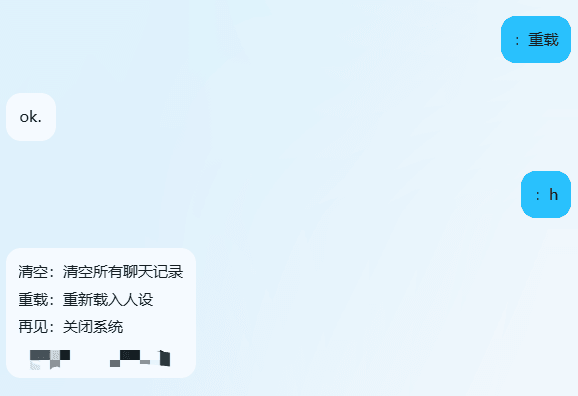
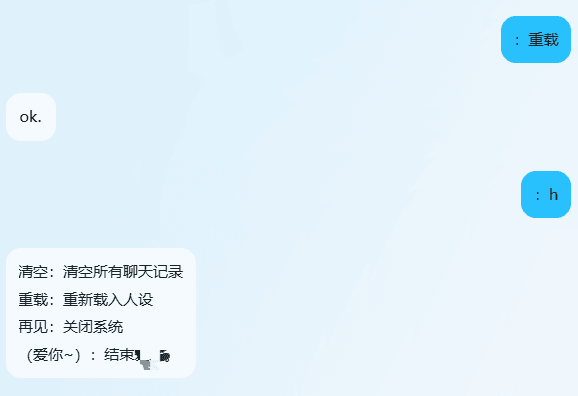
重构中...

Changed region(s): [[0.0311, 0.8788, 0.2491, 0.9394], [0.2491, 0.8788, 0.3114, 0.9394]]

diff --git a/aie_main.py b/aie_main.py
@@ -209,25 +209,34 @@ def msg_collect():
                 elif tmp['type'] == 'system':
                     # 爱爱结束
                     if tmp['msg'] == 'end_doi':
-                        log('爱爱结束.')
-                        # 合并发言
-                        if last_doi_list_range == 0:
-                            msg_list = []
-                            msg_queue.put({
-                                'type': 'system',
-                                'time': datetime.datetime.now().strftime('%Y-%m-%d %H:%M:%S'),
-                                'msg': '{系统提示：你们刚才经历了一次文爱}',
-                                'notice': True
-                            })
+                        if config['allow_doi']:
+                            log('爱爱结束.')
+                            # 合并发言
+                            if last_doi_list_range == 0:
+                                msg_list = []
+                                msg_queue.put({
+                                    'type': 'system',
+                                    'time': datetime.datetime.now().strftime('%Y-%m-%d %H:%M:%S'),
+                                    'msg': '{系统提示：你们刚才经历了一次文爱}',
+                                    'notice': True
+                                })
+                            else:
+                                msg_list = msg_list[:last_doi_list_range - 1]
+                                msg_queue.put({
+                                    'type': 'system',
+                                    'time': datetime.datetime.now().strftime('%Y-%m-%d %H:%M:%S'),
+                                    'msg': '{系统提示：你们刚才经历了一次文爱}',
+                                    'notice': True
+                                })
+                            doi_mode = False
                         else:
-                            msg_list = msg_list[:last_doi_list_range - 1]
+                            # 转发
                             msg_queue.put({
-                                'type': 'system',
-                                'time': datetime.datetime.now().strftime('%Y-%m-%d %H:%M:%S'),
-                                'msg': '{系统提示：你们刚才经历了一次文爱}',
-                                'notice': True
+                                'type': 'user',
+                                'msg': '（爱你~）',
+                                'msg_id': tmp['msg_id'],
+                                'time': tmp['time']
                             })
-                        doi_mode = False
                     # 普通消息
                     else:
                         log(f'[{tmp['msg']}]')

diff --git a/msg_receive.py b/msg_receive.py
@@ -50,6 +50,7 @@ async def index(request: fastapi.Request):
                         'type': 'system',
                         'time': datetime.datetime.now().strftime('%Y-%m-%d %H:%M:%S'),
                         'msg': 'end_doi',
+                        'msg_id': tmp['message_id'],
                         'notice': True
                     })
                 # 指令
@@ -60,7 +61,6 @@ async def index(request: fastapi.Request):
                     msg_queue.put({
                         'type': 'user',
                         'msg': tmp['message'],
-                        'raw_msg': tmp['raw_message'],
                         'msg_id': tmp['message_id'],
                         'time': f'{datetime.datetime.now().strftime("[%Y-%m-%d %H:%M:%S]")}'
                     })

diff --git a/README.md b/README.md
@@ -40,7 +40,7 @@
 - **清空**：清空所有聊天记录
 - **重载**：重新载入人设
 - **再见**：关闭系统
-##### 还有一个隐藏指令，请在聊天框内输入"：h"查看。
+##### 还有一个隐藏指令，请在特定模式下聊天框内输入"：h"查看。
 ![命令示例](guide_md/img/cmd.png)
 
 ## ⚙ 配置说明
